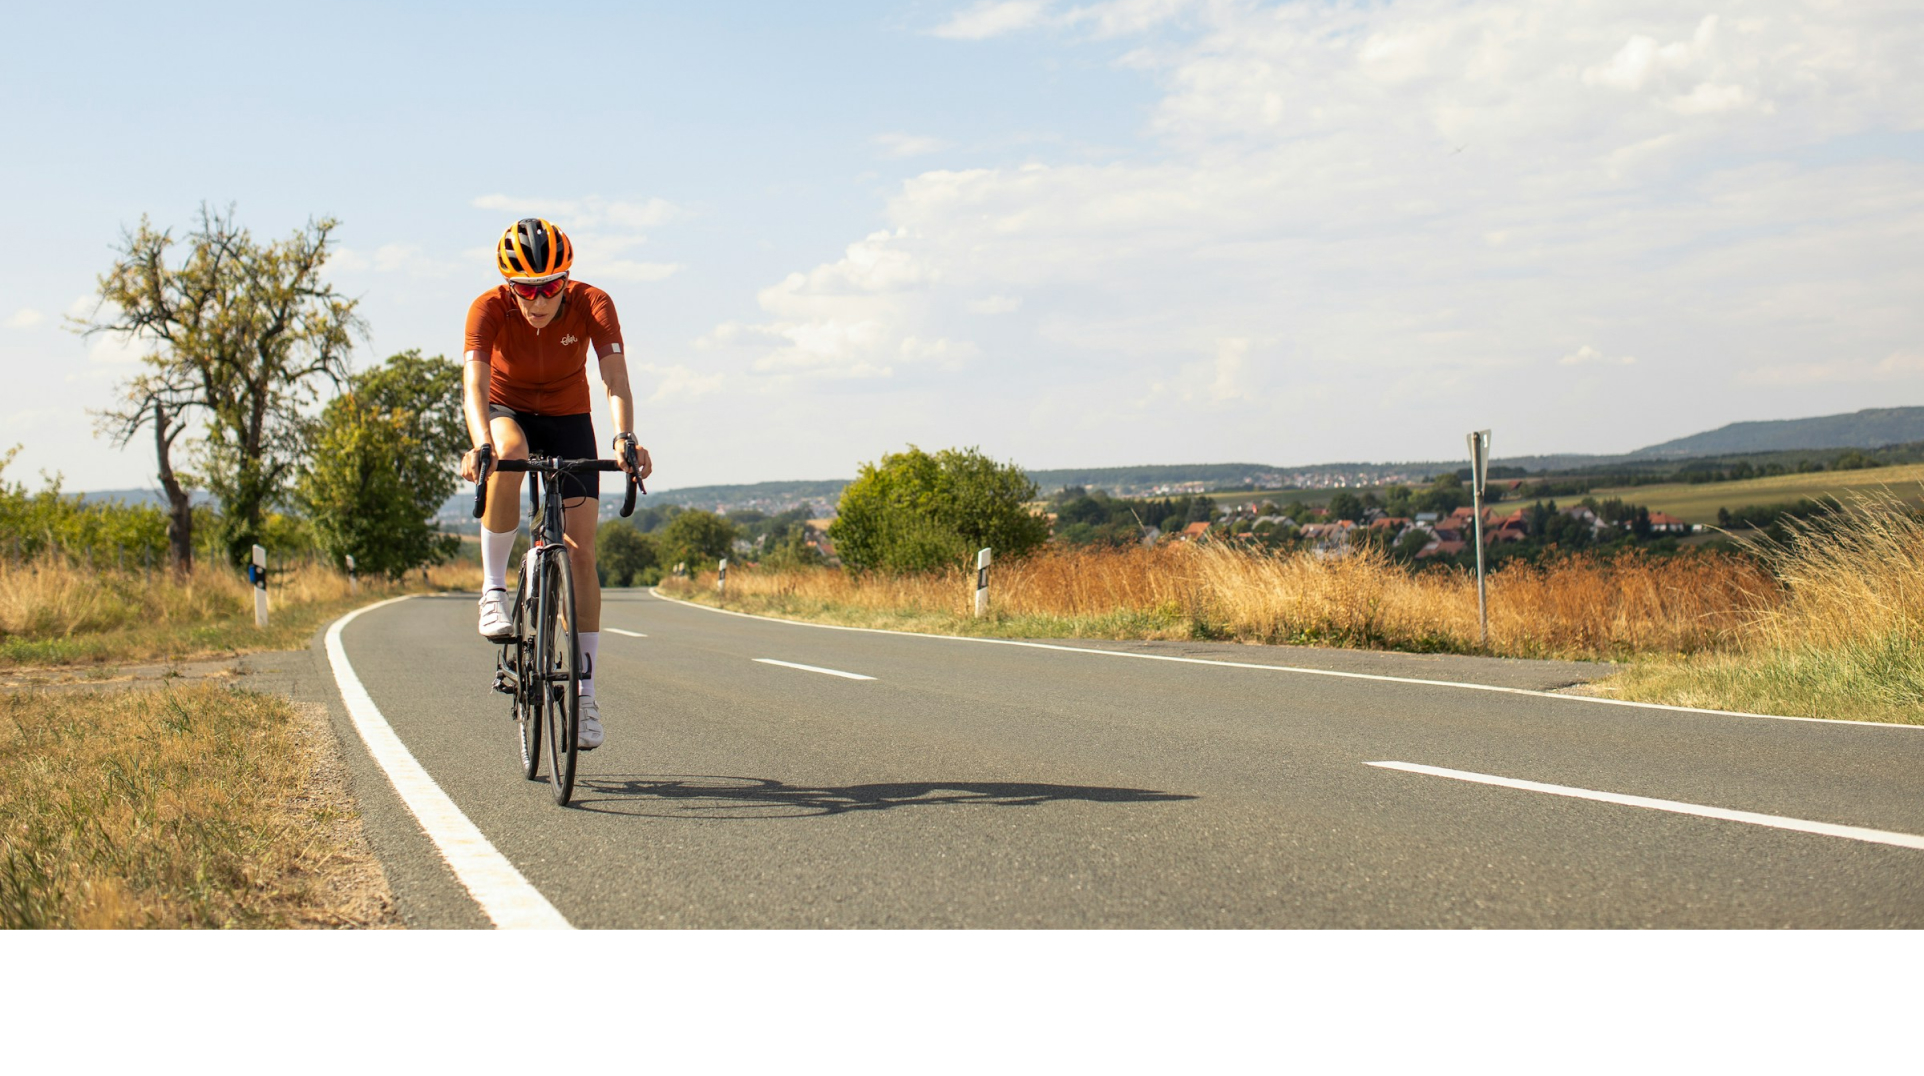
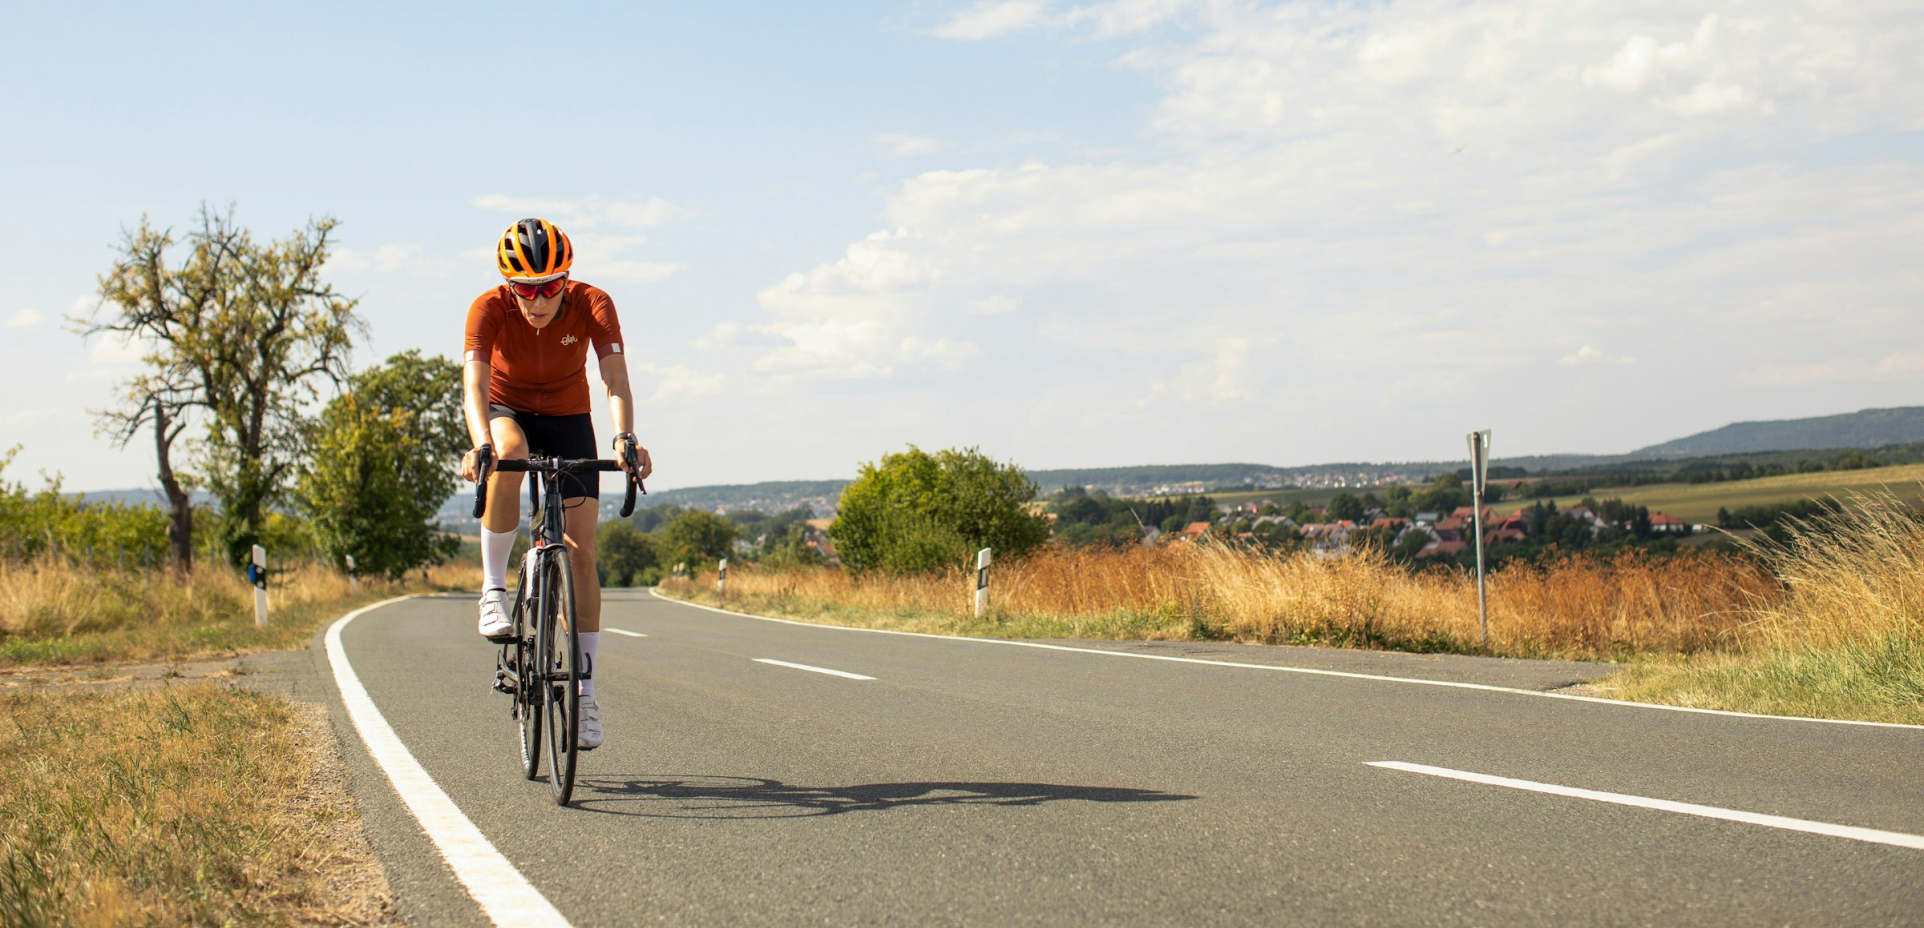
2

diff --git a/src/pages/HomePage.js b/src/pages/HomePage.js
@@ -5,7 +5,7 @@ import BestSellers from '../components/Home/BestSellers';
 import Header from '../components/Header/Header';
 import NavigationBar from '../components/NavigationBar/NavigationBar'
 import Button from '../components/Button/Button'
-import heroImage from '../components/assets/hero-image.jpg';
+import heroImage from '../components/assets/hero-image-copy.jpg';
 import vectorImage from '../components/assets/Vector 1.png'
 import './HomePage.css'
 import magtop1 from '../components/assets/Frame 80.svg';
@@ -20,13 +20,9 @@ function HomePage() {
   return (
 
     <div >  
-       <div className="header-main" >
-      <Header/>
-       </div>
       <div className="header-image-container">  
       <div className="text-overlay"></div>
        <img src={heroImage} alt="Cyclist" className="cyclist-image" />
-       <img src={vectorImage} alt="Vector Overlay" className="vector-image" /> 
       <div className="text-overlay">
         <h1>Твоя перемога ближче, ніж здається!</h1>
         <p>Знижка до 70% на весь асортимент спортивних товарів!</p>
@@ -35,6 +31,20 @@ function HomePage() {
       <a href="#"><img src={magtop2} alt="magtop" className="magtop2" /> </a>      
       <a href="#"><img src={magtop3} alt="magtop" className="magtop3" /></a>
     </div>
+
+
+    
+     {/* <div className="banner">
+       <img src={heroImage} alt="Cyclist" className="cyclist-image" />
+       <img src={vectorImage} alt="Vector Overlay" className="vector-image" /> 
+      <h1>Твоя перемога ближче, ніж здається!</h1>
+      <p>Знижка до 70% на весь асортимент спортивних товарів!</p>
+    </div>
+    <div className="product-list">
+      <div className="product">Продукт 1</div>
+      <div className="product">Продукт 2</div>
+      <div className="product">Продукт 3</div>
+    </div> */}
 
     <div className="middle-section">
       <h2>РУХАЙСЯ</h2>
@@ -67,27 +77,9 @@ function HomePage() {
         ))}
       </div>
     </div>
-
-
    </div>
   );
 }
 
 export default HomePage;
 
-
-// function HomePage() {
-//   return (
-      
-//       <div className="header-image-container">  
-//        <div className="header-content">
-//           <Header />
-//         </div>
-//       <HeroSection />
-//       <ProductCategories />
-//       <BestSellers />
-//     </div>
-//   );
-// }
-
-// export default HomePage;

diff --git a/src/pages/HomePage.css b/src/pages/HomePage.css
@@ -1,19 +1,3 @@
-
-.header-main{
-  width: 100%;
-  display: flex;
-  align-items: center;
-  justify-content: space-between;
-
-
-  position: fixed; /* Фиксированное положение */
-  top: 0;
-  left: 0;
-  right: 0;
-  z-index: 1; /* Чтобы хедер был поверх других элементов */
-
-}
-
 .buttons{
   margin: 0px;
 }
@@ -24,6 +8,7 @@
   width: 100%;
   height: auto;
   z-index: -1;
+  margin-bottom: 200px;
 }
 
 .cyclist-image {
@@ -32,16 +17,6 @@
   height: 50%;
 }
 
-.vector-image {
-  position:absolute;
-  top: 0;
-  left: 0;
-  width: 100%;
-  height: 60%;
-  object-fit:cover;
-  pointer-events: none; /* чтобы клики проходили через векторное изображение */
-   transform: translate(0%, 37%);
-}
 
 .text-overlay {
   position: absolute;
@@ -74,30 +49,32 @@ text-align: center;
 }
 
 .magtop1{
-  position: relative;
+  position: absolute;
   height: 400px;
   width: 400px;
-  top:  -50px;
+  top:  70%;
   left: 450px;
   transform: translate(-50%, 0%);
 }
 .magtop2{
-  position: relative;
+  position: absolute;
   height: 400px;
   width: 400px;
-  top:  -50px;
+  top:  50%;
   left: 600px;
   transform: translate(-50%, 0%);
 }
 
 .magtop3{
-  position: relative;
+  position: absolute;
   height: 400px;
   width: 400px;
-  top:  -50px;
+  top:  50%;
   left: 700px;
   transform: translate(-50%, 0%);
 }
+
+
 
 .header-content {
   position: absolute;
@@ -260,4 +237,24 @@ color:  #FFFFFF;
   height: 30px;
   top: -150px; /* Отступ сверху */
   left: -130px; /* Отступ слева */
+}
+
+.product-list {
+  display: flex;
+  justify-content: center;
+  gap: 20px;
+  padding: 20px;
+  background-color: #f0f0f0;
+}
+
+.product {
+  width: 150px;
+  height: 150px;
+  background-color: #ddd;
+  display: flex;
+  align-items: center;
+  justify-content: center;
+  font-weight: bold;
+  color: #333;
+  border-radius: 10px;
 }

diff --git a/src/pages/ProductPage.js b/src/pages/ProductPage.js
@@ -2,9 +2,11 @@ import React from 'react';
 import ProductDetail from '../components/ProductDetail/ProductDetail';
 
 function ProductPage() {
-  return (
+  return (   
     <main>
+
       <ProductDetail />
+
     </main>
   );
 }

diff --git a/src/App.js b/src/App.js
@@ -13,6 +13,7 @@ import ErrorPage from './pages/ErrorPage';
 import { CartProvider } from './contexts/CartContext';
 import './styles/global.css';
 
+
 function App() {
   return (
     <Router>
